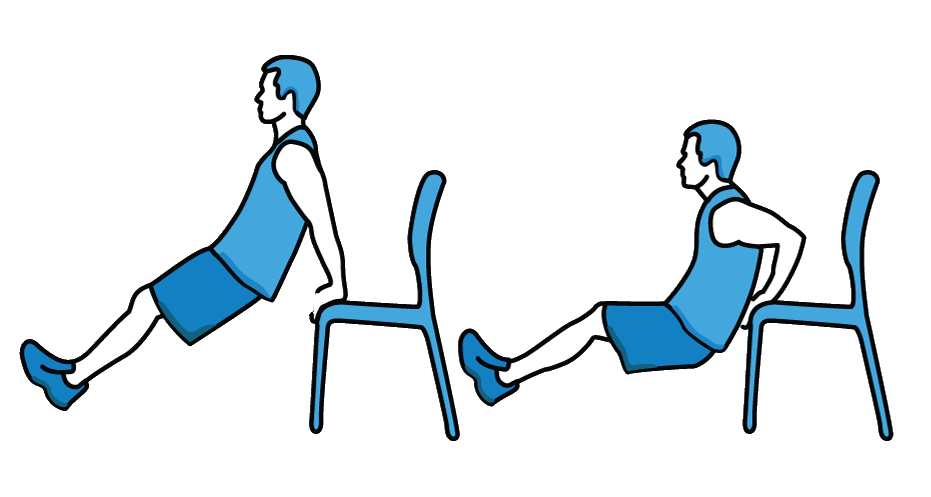
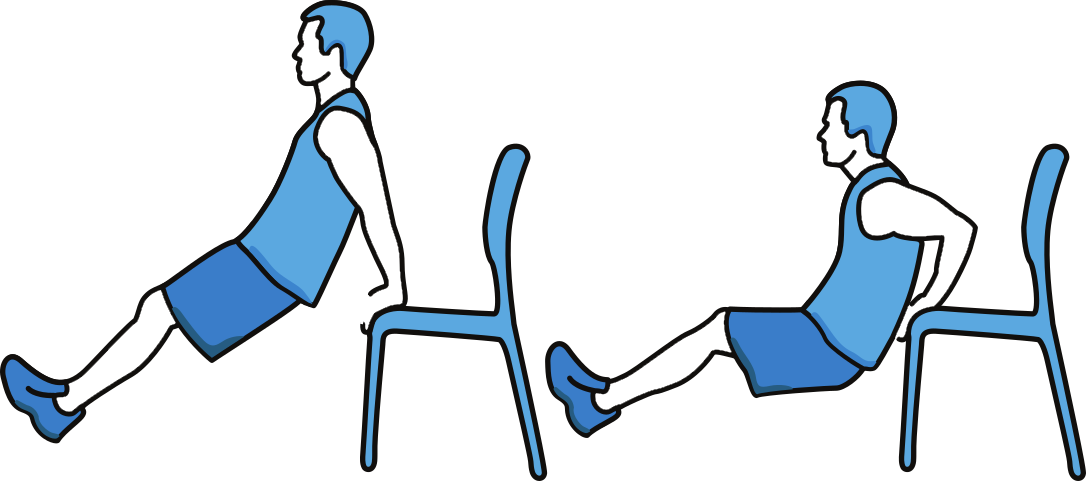
feat: Light/Dark Mode mit System-Fallback (v10.2)
- Drei-Zustands-Toggle (System / Hell / Dunkel) unten links
- Anti-Flash-Inline-Script verhindert falsches Theme beim Laden
- CSS via prefers-color-scheme + html[data-theme] Overrides
- color-scheme, meta[name=theme-color] und localStorage-Persistenz
- Hardcodierte Farben durch CSS-Custom-Properties ersetzt
- Aktualisierte Übungsbilder (exercises/)
- Version auf v10.2 gebumpt

Changed region(s): [[0.0, 0.0, 1.0, 1.0]]

diff --git a/styles.css b/styles.css
@@ -1,4 +1,5 @@
 :root {
+  color-scheme: dark;
   --bg: #0f172a;
   --bg-elev: #1e293b;
   --fg: #f1f5f9;
@@ -8,6 +9,67 @@
   --accent-warn: #ef4444;
   --btn: #334155;
   --btn-hover: #475569;
+  --card-hover-bg: #243149;
+  --picker-checked-bg: #1f3a2e;
+  --drag-ghost-bg: #243149;
+  --version-color: #334155;
+  --overlay-hover: rgba(255,255,255,0.07);
+}
+
+@media (prefers-color-scheme: light) {
+  :root {
+    color-scheme: light;
+    --bg: #f0f4f8;
+    --bg-elev: #e2e8f0;
+    --fg: #0f172a;
+    --fg-dim: #64748b;
+    --accent: #16a34a;
+    --accent-rest: #0284c7;
+    --accent-warn: #dc2626;
+    --btn: #cbd5e1;
+    --btn-hover: #94a3b8;
+    --card-hover-bg: #d1dbe6;
+    --picker-checked-bg: #dcfce7;
+    --drag-ghost-bg: #d1dbe6;
+    --version-color: #94a3b8;
+    --overlay-hover: rgba(0,0,0,0.06);
+  }
+}
+
+html[data-theme="dark"] {
+  color-scheme: dark;
+  --bg: #0f172a;
+  --bg-elev: #1e293b;
+  --fg: #f1f5f9;
+  --fg-dim: #94a3b8;
+  --accent: #22c55e;
+  --accent-rest: #38bdf8;
+  --accent-warn: #ef4444;
+  --btn: #334155;
+  --btn-hover: #475569;
+  --card-hover-bg: #243149;
+  --picker-checked-bg: #1f3a2e;
+  --drag-ghost-bg: #243149;
+  --version-color: #334155;
+  --overlay-hover: rgba(255,255,255,0.07);
+}
+
+html[data-theme="light"] {
+  color-scheme: light;
+  --bg: #f0f4f8;
+  --bg-elev: #e2e8f0;
+  --fg: #0f172a;
+  --fg-dim: #64748b;
+  --accent: #16a34a;
+  --accent-rest: #0284c7;
+  --accent-warn: #dc2626;
+  --btn: #cbd5e1;
+  --btn-hover: #94a3b8;
+  --card-hover-bg: #d1dbe6;
+  --picker-checked-bg: #dcfce7;
+  --drag-ghost-bg: #d1dbe6;
+  --version-color: #94a3b8;
+  --overlay-hover: rgba(0,0,0,0.06);
 }
 
 * {
@@ -269,10 +331,37 @@ h1 {
   bottom: max(0.5rem, env(safe-area-inset-bottom));
   right: max(0.75rem, env(safe-area-inset-right));
   font-size: 0.65rem;
-  color: #334155;
+  color: var(--version-color);
   user-select: none;
   cursor: pointer;
   padding: 0.5rem;
+}
+
+.theme-toggle {
+  position: fixed;
+  bottom: max(0.5rem, env(safe-area-inset-bottom));
+  left: max(0.75rem, env(safe-area-inset-left));
+  appearance: none;
+  border: none;
+  background: transparent;
+  color: var(--version-color);
+  padding: 0.5rem;
+  cursor: pointer;
+  user-select: none;
+  display: flex;
+  align-items: center;
+  justify-content: center;
+  transition: color 0.15s;
+}
+
+.theme-toggle:hover {
+  color: var(--fg-dim);
+}
+
+.theme-toggle svg {
+  width: 16px;
+  height: 16px;
+  display: block;
 }
 
 /* Finished */
@@ -341,7 +430,7 @@ h1 {
 }
 
 .workout-card:hover {
-  background: #243149;
+  background: var(--card-hover-bg);
 }
 
 .workout-card-main {
@@ -378,7 +467,7 @@ h1 {
 }
 
 .workout-card-edit:hover {
-  background: rgba(255,255,255,0.06);
+  background: var(--overlay-hover);
   color: var(--fg);
 }
 
@@ -457,7 +546,7 @@ h1 {
   pointer-events: none;
   opacity: 0.95;
   box-shadow: 0 10px 30px rgba(0,0,0,0.4);
-  background: #243149;
+  background: var(--drag-ghost-bg);
 }
 
 .drag-handle {
@@ -582,7 +671,7 @@ h1 {
 }
 
 .picker-item.checked {
-  background: #1f3a2e;
+  background: var(--picker-checked-bg);
   outline: 1px solid var(--accent);
 }
 

diff --git a/app.js b/app.js
@@ -10,9 +10,55 @@ import {
   getLastUsedWorkoutId,
 } from "./workouts.js";
 
-const VERSION = "v10.1";
+const VERSION = "v10.2";
 
 document.getElementById("version-label").textContent = VERSION;
+
+// --- Theme ---
+const THEME_KEY = "7min.theme";
+const THEME_CYCLE = ["auto", "light", "dark"];
+
+const THEME_ICONS = {
+  auto: `<svg viewBox="0 0 24 24" fill="none" stroke="currentColor" stroke-width="2" stroke-linecap="round" stroke-linejoin="round" aria-hidden="true"><rect x="2" y="3" width="20" height="14" rx="2"/><polyline points="8 21 12 17 16 21"/></svg>`,
+  light: `<svg viewBox="0 0 24 24" fill="none" stroke="currentColor" stroke-width="2" stroke-linecap="round" stroke-linejoin="round" aria-hidden="true"><circle cx="12" cy="12" r="5"/><line x1="12" y1="1" x2="12" y2="3"/><line x1="12" y1="21" x2="12" y2="23"/><line x1="4.22" y1="4.22" x2="5.64" y2="5.64"/><line x1="18.36" y1="18.36" x2="19.78" y2="19.78"/><line x1="1" y1="12" x2="3" y2="12"/><line x1="21" y1="12" x2="23" y2="12"/><line x1="4.22" y1="19.78" x2="5.64" y2="18.36"/><line x1="18.36" y1="5.64" x2="19.78" y2="4.22"/></svg>`,
+  dark: `<svg viewBox="0 0 24 24" fill="none" stroke="currentColor" stroke-width="2" stroke-linecap="round" stroke-linejoin="round" aria-hidden="true"><path d="M21 12.79A9 9 0 1 1 11.21 3 7 7 0 0 0 21 12.79z"/></svg>`,
+};
+
+const THEME_LABELS = { auto: "Systemdesign", light: "Hellmodus", dark: "Dunkelmodus" };
+const metaThemeColor = document.getElementById("meta-theme-color");
+const btnTheme = document.getElementById("btn-theme");
+
+function getTheme() {
+  return localStorage.getItem(THEME_KEY) || "auto";
+}
+
+function applyTheme(t) {
+  if (t === "auto") {
+    document.documentElement.removeAttribute("data-theme");
+    localStorage.removeItem(THEME_KEY);
+  } else {
+    document.documentElement.setAttribute("data-theme", t);
+    localStorage.setItem(THEME_KEY, t);
+  }
+  const isDark =
+    t === "dark" ||
+    (t === "auto" && window.matchMedia("(prefers-color-scheme: dark)").matches);
+  metaThemeColor.content = isDark ? "#0f172a" : "#f0f4f8";
+  btnTheme.innerHTML = THEME_ICONS[t];
+  btnTheme.title = THEME_LABELS[t];
+  btnTheme.setAttribute("aria-label", THEME_LABELS[t]);
+}
+
+btnTheme.addEventListener("click", () => {
+  const next = THEME_CYCLE[(THEME_CYCLE.indexOf(getTheme()) + 1) % THEME_CYCLE.length];
+  applyTheme(next);
+});
+
+window.matchMedia("(prefers-color-scheme: dark)").addEventListener("change", () => {
+  if (getTheme() === "auto") applyTheme("auto");
+});
+
+applyTheme(getTheme());
 
 const els = {
   // views

diff --git a/index.html b/index.html
@@ -3,8 +3,9 @@
 <head>
   <meta charset="UTF-8" />
   <meta name="viewport" content="width=device-width, initial-scale=1, viewport-fit=cover" />
-  <meta name="theme-color" content="#0f172a" />
+  <meta name="theme-color" id="meta-theme-color" content="#0f172a" />
   <title>7-Minuten-Workout</title>
+  <script>(function(){var t=localStorage.getItem('7min.theme');if(t)document.documentElement.setAttribute('data-theme',t);})();</script>
   <link rel="manifest" href="./manifest.webmanifest" />
   <link rel="icon" href="./icons/icon-192.png" />
   <link rel="apple-touch-icon" href="./icons/icon-192.png" />
@@ -103,6 +104,7 @@
   </main>
 
   <div id="version-label" class="version-label"></div>
+  <button id="btn-theme" class="theme-toggle" aria-label="Farbschema wechseln" title="Farbschema wechseln"></button>
   <script type="module" src="./app.js"></script>
 </body>
 </html>

diff --git a/sw.js b/sw.js
@@ -1,4 +1,4 @@
-const CACHE = "7min-v10.1";
+const CACHE = "7min-v10.2";
 const ASSETS = [
   "./",
   "./index.html",